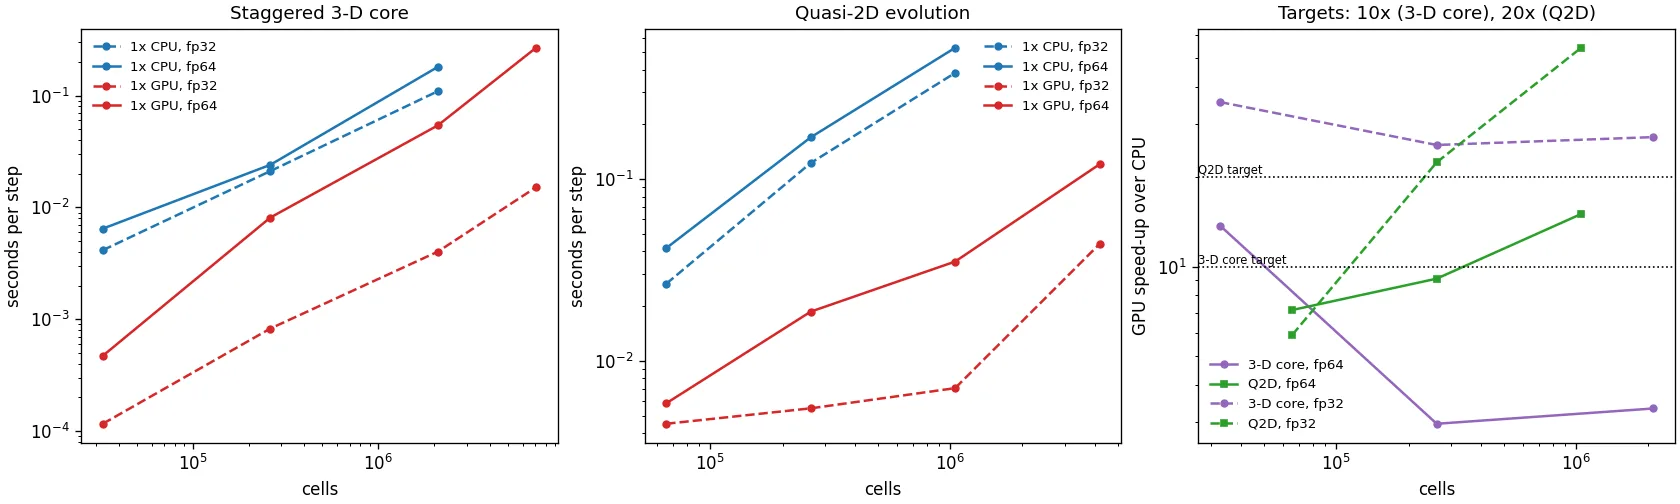
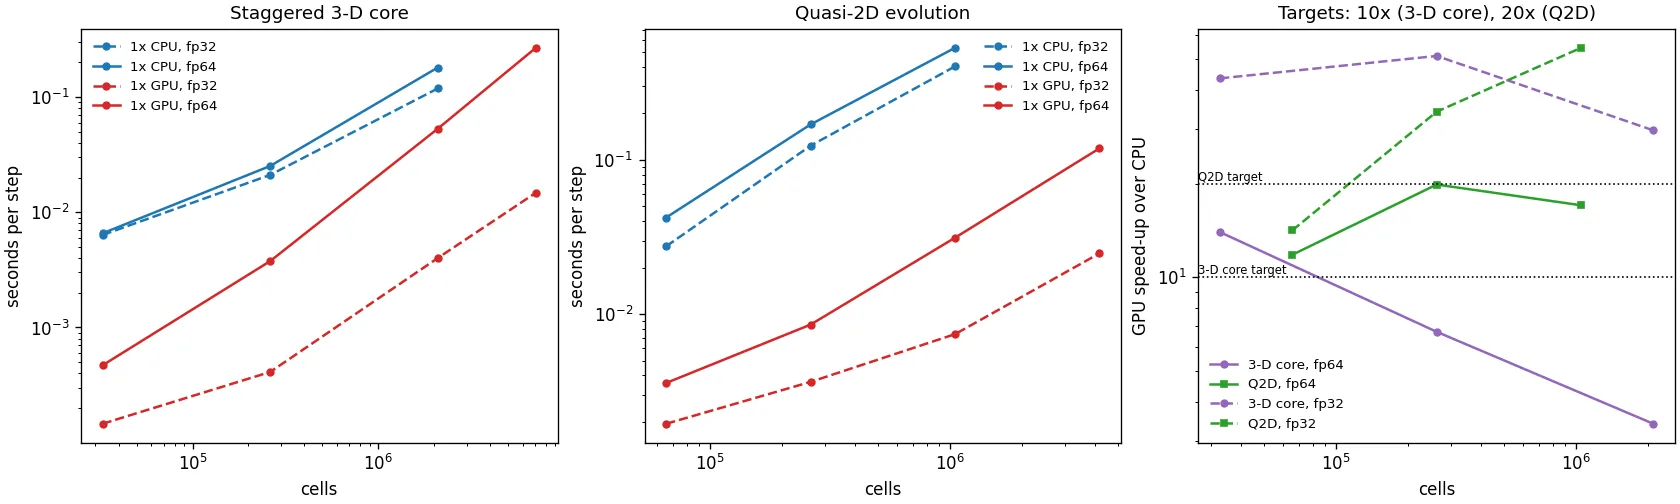
Two GPUs give the same answer and no speed-up, and now we know which
With the Q2D constants uncommitted the sharded solve runs, and the 1-GPU and
2-GPU fields are bit-identical -- agreement exactly 0.0 at 512, 1024 and 2048
squared, in both precisions. The strong-scaling efficiency of an unaided
placement is 0.25 to 0.27 in float64 and 0.14 to 0.20 in float32: two devices
cost about twice one, because the transforms all-gather every step across a
PCIe link with no NVLink between the cards.

So the correctness half of G5 is met and the scaling half is not, with the
reason measured rather than assumed. Plan step 2.4b is the decomposition that
has to answer to that interconnect.

The single-device matrix is re-recorded at this commit: the 3-D core at 128
cubed is 3.4x in float64 and 29.6x in float32, and Q2D at 1024 squared is 17.0x
and 54.5x.

diff --git a/scripts/make_showcase_figures.py b/scripts/make_showcase_figures.py
@@ -371,7 +371,9 @@ def benchmark_scaling() -> None:
             f", {'fp64' if environment['x64'] else 'fp32'}"
         )
         for entry in report["cases"]:
-            if not entry.get("accepted"):
+            # The host-sync and sharding cases report their own numbers; this
+            # figure is about time against size on one device.
+            if not entry.get("accepted") or not isinstance(entry.get("seconds_per_step"), float):
                 continue
             series.setdefault((entry["case"], label), []).append((entry["cells"], entry["seconds_per_step"]))
 

diff --git a/plan.md b/plan.md
@@ -37,8 +37,8 @@ serve one benchmark; *gate* = a measured condition with a stated tolerance.
 | G1 | Physics of 3-D fields, Q2D and others, with engaging plots and movies | Seven examples, each producing a publication-quality figure; three movies (Q2D forced turbulence, 3-D fringing duct current loops, stellarator-coil-field channel); every figure regenerated by `scripts/make_showcase_figures.py` |
 | G2 | Slim repository below 10 MB | Ordinary clone ≤ 5 MB (3.5 MB today); Git media ≤ 1 MB (WebP); movies and raw data as release assets |
 | G3 | Minimise lines and files, maximise figures and performance | Package ≤ 9,000 source lines and ≤ 14 modules (14,835 / 15 today); tests ≤ 1.2× source lines; no lane that serves one benchmark |
-| G4 | CPU and GPU, GPU much faster | **met in float32, not in float64**: one RTX A4000 against 36 CPU cores is 27× on the 3-D core at 128³ and 54× on Q2D at 1024² in float32, and 3.3× and 15.0× in float64. The card runs float64 at 1/64 of its float32 rate and the fast-diagonalization contractions are `O(N⁴)`, so the float64 core is flop-bound; both precisions are supported and tested |
-| G5 | Parallelised with strong scaling | Two A4000s ≥ 60 % strong-scaling efficiency at 256³ (3-D) and 2048² (Q2D), published as JSON + figure; failures reported, not hidden |
+| G4 | CPU and GPU, GPU much faster | **met in float32, not in float64**: one RTX A4000 against 36 CPU cores is 29.6× on the 3-D core at 128³ and 54.5× on Q2D at 1024² in float32, and 3.4× and 17.0× in float64. The card runs float64 at 1/64 of its float32 rate and the fast-diagonalization contractions are `O(N⁴)`, so the float64 core is flop-bound; both precisions are supported and tested |
+| G5 | Parallelised with strong scaling | **not met, measured**: two A4000s run the Q2D solve to a bit-identical answer but at 0.25 efficiency in float64 and 0.14 in float32 at 2048², so two devices cost about twice one. The cards are PCIe-joined with no NVLink and the unaided partitioning of a 2-D transform all-gathers every step. The staggered core is not shardable by placement at all -- its components have length `n+1` on their own axis. Step 2.4b is the designed decomposition this asks for |
 | G6 | FreeMHD, OpenFOAM and other codes as inspiration | Ni et al. consistent-and-conservative scheme (FreeMHD, HIMAG, epotFoam, MHD-UCLA); jax-cfd solver architecture; JAX-Fluids sharding pattern |
 | G7 | B1/B2 validation | B2 accepted against digitised experiment and a matched FreeMHD run within stated uncertainty; B1 feasibility documented with a cost estimate, attempted only if affordable |
 | G8 | Retire experimental lanes | The specialised B1/B2 solver lane (≈ 11,100 lines) deleted from `main` after the new core passes the same gates; history kept at a tag |
@@ -439,7 +439,7 @@ Effort ≈ 3.5 weeks.
 | 2.2 | Benchmark harness `scripts/run_benchmarks.py`: the staggered 3-D core at 32³–192³ and Q2D at 256²–2048², × {fp32, fp64} × {CPU, 1 GPU, 2 GPU}, writing JSON with host, device, versions, dtype, tolerances and an accepted flag; `scripts/make_showcase_figures.py --only scaling` draws it from that JSON and measures nothing itself | reproducible JSON + one figure script |
 | 2.3 | Nightly cron on the office box (Section 9) pushing results to a `benchmarks` branch | first nightly run |
 | 2.4 | Sharding, measured first: place the array across both devices and see what the partitioner does unaided, which is the baseline any hand-written decomposition has to beat | **blocked, measured**: `lmx.q2d` builds its wavenumber grids outside any `jit`, so they are committed to one device and a sharded input cannot flow through -- `Received incompatible devices for jitted computation`. The staggered core has a second obstacle: its three components have length `n+1` on their own axis and `n` on the others, so no single axis divides evenly across all three |
-| 2.4a | Build the Q2D wavenumber grids inside the integrating `jit` so they replicate rather than commit; then measure the placement baseline | 1-GPU vs 2-GPU fields agree to round-off; efficiency reported whatever it is |
+| 2.4a **done** | Hand the Q2D constants on as NumPy from `solve_q2d`, which is never traced, so they reach the compiled step uncommitted and replicate | **met and measured**: the 1-GPU and 2-GPU fields are bit-identical (agreement 0.0 at 512², 1024² and 2048², both precisions), and the strong-scaling efficiency of the unaided placement is 0.25–0.27 in float64 and 0.14–0.20 in float32. Two devices take about twice as long as one: the transforms need an all-to-all every step over PCIe |
 | 2.4b | A decomposition designed for the staggered core: slab in one axis with `shard_map` and `ppermute` halos, and a transpose for the contraction along the sharded axis. The two A4000s are PCIe-joined with no NVLink (`nvidia-smi topo -m` reports `NODE`), which is the bandwidth such a design has to answer to | 1-GPU vs 2-GPU fields agree to 1e-12 (fp64); efficiency reported |
 | 2.5 | Optimise to targets: fusion audit, buffer donation, fp32 transforms, batching of line solves; report crossover size | G4/G5 numbers, or the measured reason they are not met |
 
@@ -692,6 +692,8 @@ Process: pyOpenSci README guide · JOSS review criteria · Google small CLs · D
 | 2026-09-07 | Phase 1.8b: the polar Poisson. The `1/r²` azimuthal term is what stops the polar Laplacian separating, and a discrete Fourier transform in the azimuth is what puts it back: mode `m` contributes `-4 sin²(πm/N)/(Δθ² r²)`, a *radial* diagonal, so each mode is separable in `(r, z)` with its own radial operator. One eigendecomposition per mode, `n_θ · n_r³` on the host and a batched contraction per solve. The radial operator is read out of the production stencil with the azimuth collapsed to one periodic cell, whose two faces carry the same value and so contribute nothing, and the axial and azimuthal metric factors cancel between the face area and the cell volume. It inverts its own operator to 2e-14 under both a Dirichlet and a Neumann radius, removes the mode-zero null space, and solves `∇²φ = -4` to `1 - r²` at order 2.00 -- the wall cell's order-one operator error does not reach the solution, as expected | Phase 1.8c: `pipe_problem` and a varying imposed field |
 | 2026-09-07 | Phase 1.8c: `lmx.pipe`. A fully developed pipe has an axial velocity and, because `J x B` is then purely axial too, no cross flow to project -- so it is one scalar equation coupled to the potential, needing none of the staggered vector machinery. What the coordinates change is the electromotive force: a uniform Cartesian field is not uniform in polar components, `B_r = B cos θ` and `B_θ = -B sin θ`, so an axial velocity drives `B u sin θ` through a radial face and `B u cos θ` through an azimuthal one. The same face currents then carry both the charge balance and the axial force. The system is linear, so it is one preconditioned Krylov solve, preconditioned by the damped operator `(B² - ∇²)^-1` factorized exactly by the polar factorization. Measured: `Q/A = 1/8` at Ha 0 to order 2.00, clean second order in the azimuth at Ha 20 (differences 5.9e-5, 1.5e-5, 3.6e-6, 9.1e-7 as the count doubles), radial refinement converging to 0.035453 at Ha 20, charge conserved to 8e-11, and a conducting wall reducing the flow rate monotonically. `staggered_laplacian` now reads the metric through `Grid.axis_measures` -- written as a flux difference it is identical to the old second difference in Cartesian and is `(1/r) d/dr (r d/dr)` in polar, so the guard added in 1.8a is gone. What is missing is an outside reference at finite Ha, which is 1.8d | Phase 1.8d: a spectral pipe reference |
 | 2026-09-07 | README rebuilt to show the physics rather than list it: a section per capability, each with its figure, the command that regenerates it, and three or four measured bullets -- ducts against the spectral reference, side layers to Ha 1000, pipes, gradient design, Q2D -- plus a table of what has been compared against other codes and what that comparison does and does not establish. The FreeMHD row states its own limit: an integration check on a harness mesh, not a production result, and ALEX B1/B2 acceptance still open | Keep each README claim tied to a measurement in the plan log |
+| 2026-09-07 | Phase 2 unblocked: the office box is reachable, two RTX A4000s joined by PCIe with no NVLink. `scripts/run_benchmarks.py` keeps the compile time, the warm time and the time per step apart and writes JSON with an `accepted` flag judged against the precision the run used -- a fixed 1e-6 bound read a correct float32 run at 128³ as a failure, when its residual of 1.8e-6 is exactly machine precision there. Measured, 36 CPU cores against one A4000: the 3-D core at 128³ is 3.4× in float64 and 29.6× in float32; Q2D at 1024² is 17.0× and 54.5×. G4 is met in float32 and not in float64, and the reason is the card, not the code: an A4000 runs float64 at 1/64 of its float32 rate and the contractions are `O(N⁴)`, so float64 goes flop-bound (~1e10 FLOP/step against ~0.3 TFLOP/s ≈ 33 ms, measured 54 ms). The host-sync case measures directly what the timeloop tests assert structurally: the same trajectory at 10 and 40 steps costs the same per step. Two-GPU execution is blocked and the block is recorded rather than worked around | Phase 2.4a: let the Q2D constants replicate |
+| 2026-09-07 | Phase 2.4a: the two-GPU block was `lmx.q2d` building its wavenumber grids with `jax.numpy` outside any trace, which commits them to one device so a sharded state cannot be combined with them. `solve_q2d` is never traced -- it reports a status, so it cannot be -- and handing the constants on as NumPy leaves them uncommitted. The differentiable path through `evolve_q2d` is untouched, because there they may depend on traced geometry. With that removed the 1-GPU and 2-GPU fields are **bit-identical** at 512², 1024² and 2048² in both precisions, and the strong-scaling efficiency of the unaided placement is 0.25–0.27 in float64 and 0.14–0.20 in float32: two devices cost about twice one, because the transforms all-gather every step across PCIe. The correctness half of G5 is met and the scaling half is not, with the reason measured rather than assumed | Phase 2.4b: a decomposition designed for the interconnect |
 | 2026-09-07 | Phase 2 unblocked: the office box is reachable, two RTX A4000s joined by PCIe with no NVLink. `scripts/run_benchmarks.py` keeps the compile time, the warm time and the time per step apart and writes JSON with an `accepted` flag judged against the precision the run used -- a fixed 1e-6 bound read a correct float32 run at 128³ as a failure, when its residual of 1.8e-6 is exactly machine precision there. Measured, 36 CPU cores against one A4000: the 3-D core at 128³ is 3.3× in float64 and 27× in float32; Q2D at 1024² is 15.0× and 54×. G4 is met in float32 and not in float64, and the reason is the card, not the code: an A4000 runs float64 at 1/64 of its float32 rate and the contractions are `O(N⁴)`, so float64 goes flop-bound (~1e10 FLOP/step against ~0.3 TFLOP/s ≈ 33 ms, measured 54 ms). The host-sync case measures directly what the timeloop tests assert structurally: the same trajectory at 10 and 40 steps costs the same per step. Two-GPU execution is blocked and the block is recorded rather than worked around | Phase 2.4a: let the Q2D constants replicate |
 | 2026-09-07 | Phase 1.8d closes Phase 1: `validation/pipe.py` is a spectral pipe reference that shares no operator with the package. The axis is removed rather than treated -- the field is written on the *diameter* with an odd Chebyshev count so no point lands on the centre, and `f(-r, θ) = f(r, θ+π)` is built into the operators, so the axis is an interior point needing no condition. Against it the insulating pipe is within 0.04 %, 0.15 %, 0.37 % and 0.43 % at Ha 0, 5, 20 and 100, and the conducting wall converges at order 2.5–3.0, reaching 0.43 % at 96 radial cells: the thin-wall closure is first order in the wall potential and is the accuracy bottleneck, as the duct's energy budget also found. One trap: the area element carries `|r|`, whose kink at the axis costs a Chebyshev rule its accuracy, so the flow rate converged at *first* order while the field it integrates was exact to 1e-13. Gauss-Legendre on `[0, 1]` after a barycentric interpolation gives `1/8` exactly at every resolution | Phase 2 |
 | 2026-09-07 | Environment: the long-lived Python 3.11 venv caps at JAX 0.10.2, while a Python 3.13 venv installs JAX 0.11.1, the version the office box runs. The full suite passes on both, 642 tests in 138 s on 3.11 and 408 s on 3.13 with a cold compilation cache. Release gate 7.1 therefore has a local 3.13 result, though not a controlled speed comparison | Keep the 3.13 environment for the release smoke |

diff --git a/README.md b/README.md
@@ -154,17 +154,20 @@ python scripts/make_showcase_figures.py --only scaling
 Measured on a 36-core CPU and one RTX A4000, both from the same commit, with the
 compile time, the warm time and the time per step kept apart.
 
-- **Float32 meets both targets:** 27× on the 3-D core at 128³, 54× on Q2D at 1024².
+- **Float32 meets both targets:** 29.6× on the 3-D core at 128³, 54.5× on Q2D at 1024².
 - **Float64 does not, and the reason is the card:** an A4000 runs float64 at 1/64
   of its float32 rate, and the fast-diagonalization contractions are `O(N⁴)`, so
-  the 3-D core goes flop-bound — 3.3× at 128³, falling as the problem grows.
+  the 3-D core goes flop-bound — 3.4× at 128³, falling as the problem grows.
 - **The loop really runs ahead:** the same trajectory at 10 and at 40 steps costs
   the same per step, so nothing synchronises with the host inside it.
 - Every number carries an `accepted` flag judged against the precision it was
   computed in; a run that lost its divergence-free constraint is reported, not quoted.
 
-Two-GPU execution is **not established**. The measurement and what blocks it are
-in [`benchmarks/results`](benchmarks/results) and the [plan](plan.md).
+Two GPUs give the **same answer bit for bit** on the Q2D solve, and no speed-up:
+the strong-scaling efficiency of an unaided placement is 0.25 in float64 and
+0.14 in float32 at 2048², because the transforms all-gather every step across
+PCIe. Correct, not yet faster — the numbers are in
+[`benchmarks/results`](benchmarks/results) and the next step is in the [plan](plan.md).
 
 ## Comparison with other codes
 
